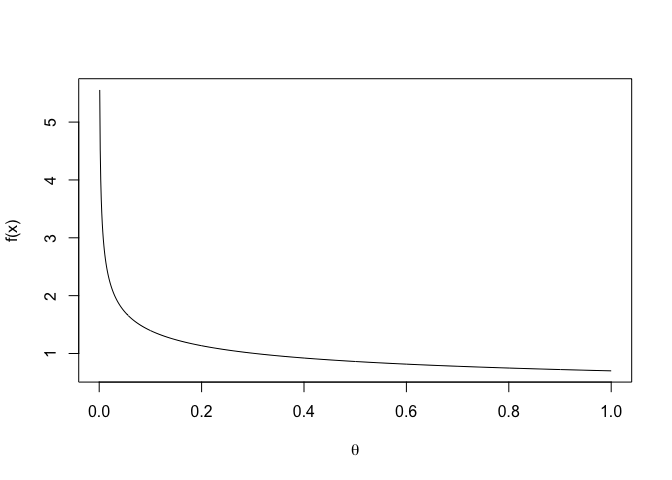
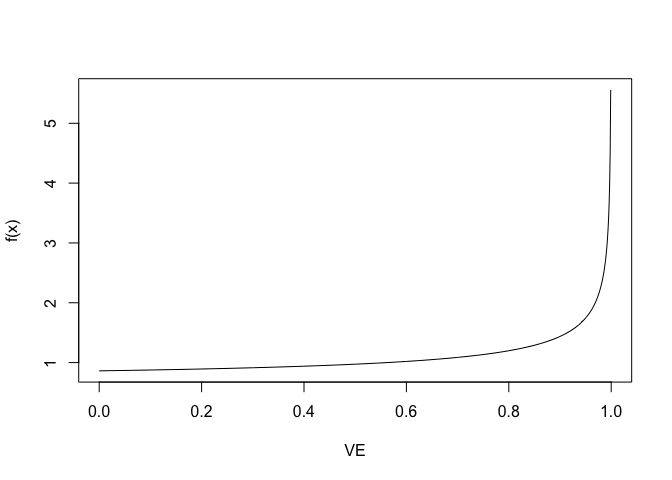
new results update

diff --git a/README.md b/README.md
@@ -34,18 +34,18 @@ criterion <- function(a, b) {
 
 calc_statistics <- function(a = 0, b = 0) {
   theta <- integrate(mu_beta, 0, 1, a = a, b = b)$value
-  ci <- rev(ve(ci(c(0.025, 0.975), a, b)))
+  ci <- rev(ve(ci(c(0.005, 0.995), a, b)))
 
   cat(sprintf("E[theta]: %.4f\n", theta))
   cat(sprintf("VE: %.4f\n", ve(theta)))
   cat(sprintf("P(VE < 30%%): %g\n", criterion(a, b)))
-  cat(sprintf("VE 95%% Credible Interval: %.4f, %.4f", ci[1], ci[2]))
+  cat(sprintf("VE 99%% Credible Interval: %.4f, %.4f", ci[1], ci[2]))
 
   theta_dist <- function(x) {
-    dbeta(x, 0.700102 + a, 1 + b)
+    dbeta(theta(x), 0.700102 + a, 1 + b)
   }
   
-  curve(theta_dist, n = 1000, xlab = expression(theta), ylab = "f(x)")
+  curve(theta_dist, n = 1000, xlab = "VE", ylab = "f(x)")
 }
 ```
 
@@ -58,19 +58,22 @@ calc_statistics()
     ## E[theta]: 0.4118
     ## VE: 0.2999
     ## P(VE < 30%): 0.462702
-    ## VE 95% Credible Interval: -26.1556, 0.9948
+    ## VE 99% Credible Interval: -138.1707, 0.9995
 
 ![](README_files/figure-gfm/unnamed-chunk-2-1.png)<!-- -->
 
 Assuming an 8 and 86 case split between the arms:
 
 ``` r
-calc_statistics(8, 86)
+n <- 170
+n_vac <- 8
+n_placebo <- n - n_vac
+calc_statistics(n_vac, n_placebo)
 ```
 
-    ## E[theta]: 0.0909
-    ## VE: 0.9000
-    ## P(VE < 30%): 6.42927e-13
-    ## VE 95% Credible Interval: 0.8156, 0.9559
+    ## E[theta]: 0.0507
+    ## VE: 0.9466
+    ## P(VE < 30%): 1.96001e-28
+    ## VE 99% Credible Interval: 0.8851, 0.9821
 
 ![](README_files/figure-gfm/unnamed-chunk-3-1.png)<!-- -->
